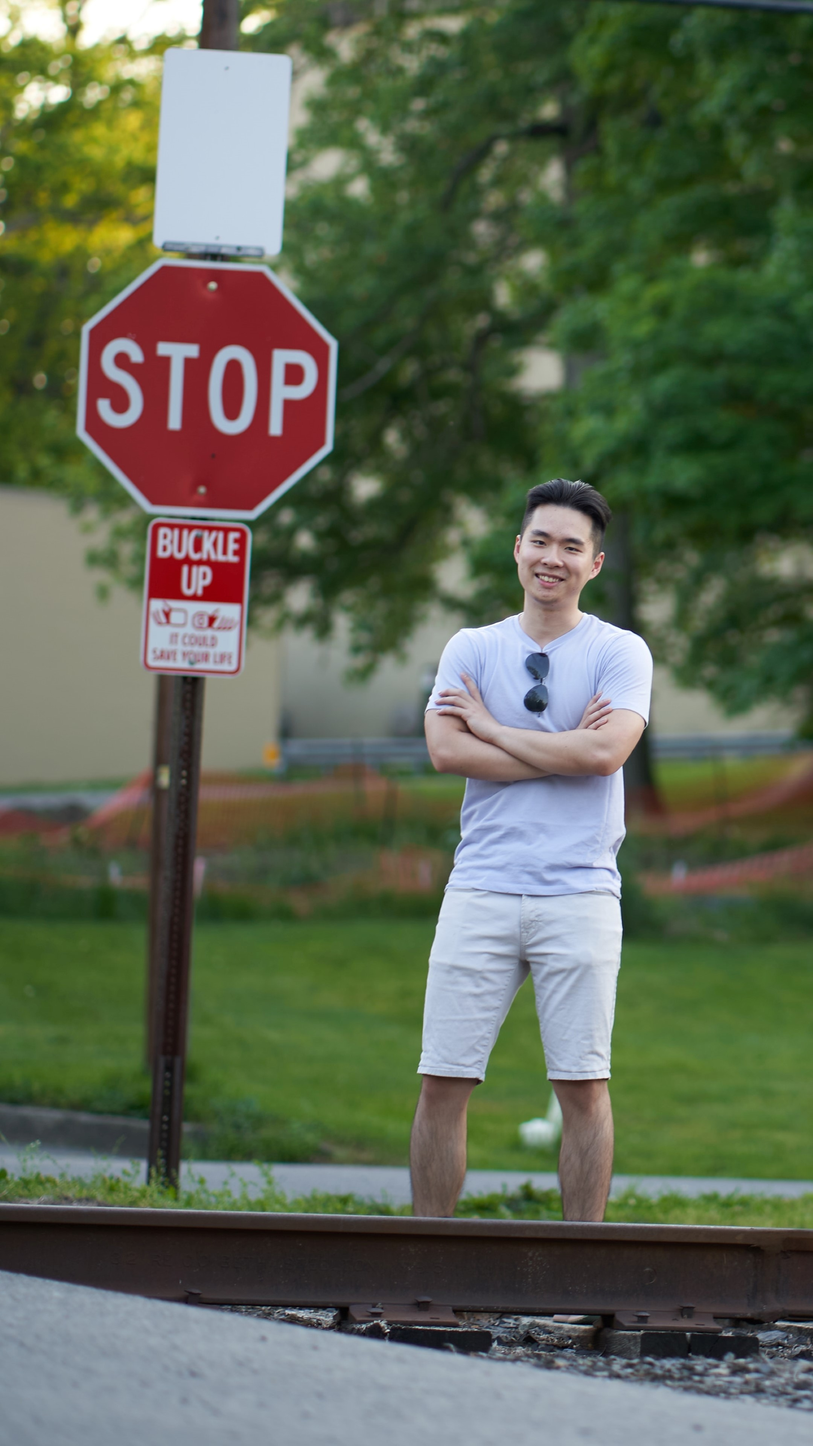
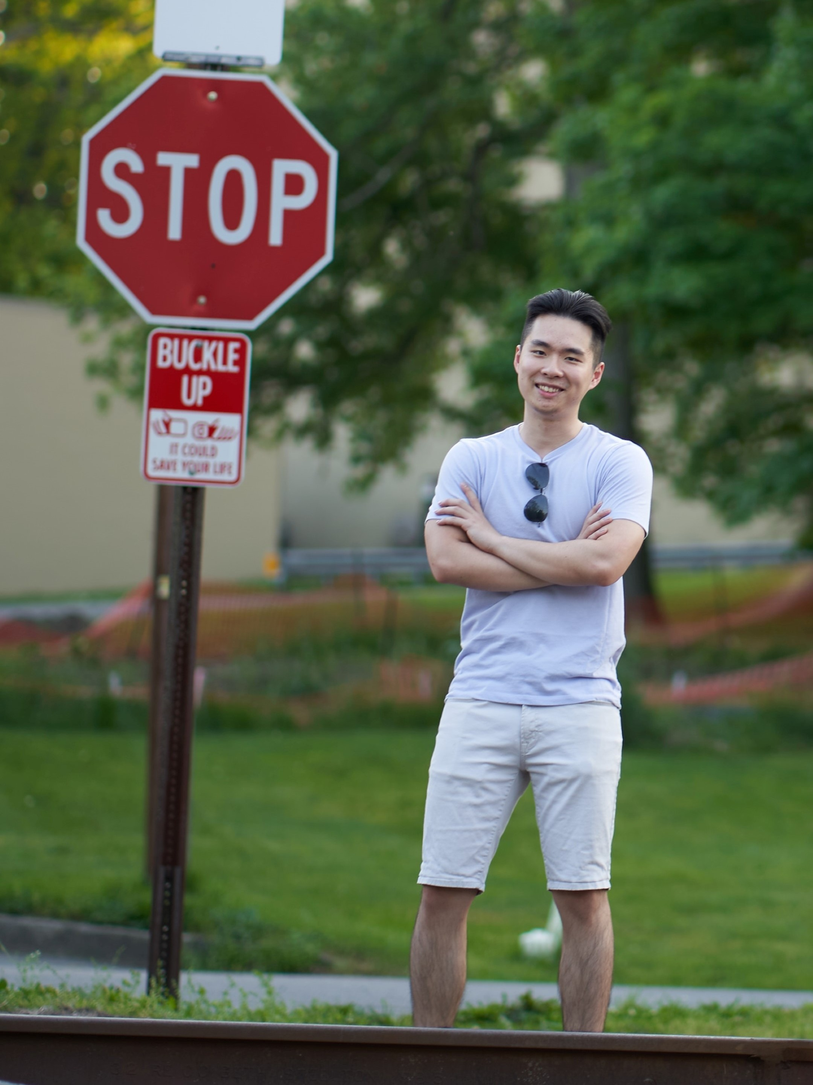
new images

diff --git a/style.css b/style.css
@@ -342,17 +342,23 @@ body:after {
 .card-content img {
   object-fit: cover;
   overflow: hidden;
-  width: 60rem;
-  height: 30rem;
+  width: 100%;
+  height: 100%;
+  flex: 4;
   object-position: center;
   filter:  url(#grainy) brightness(110%);
   border-right: solid 4px rgba(0, 0, 0, 0.2);
   border-bottom: none;
 }
+
+
+
 .card-content .card-text {
+  flex: 3;
   color:black;
   padding:3rem;
   text-align: left;
+  box-sizing: border-box;
 }
 
 .card-content .banner-image {
@@ -373,7 +379,7 @@ body:after {
     width: 100%;
     /* min-height: 20rem;
     max-height: 30rem; */
-    height: 20rem;
+    height: 25rem;
     border-right: none;
     border-bottom: 4px solid rgba(0, 0, 0, 0.2);
  }

diff --git a/music.html b/music.html
@@ -42,7 +42,7 @@
     <div class="card shadowed grainy">
       <!-- <p style="text-align: center; display: block;"> -->
       <div class="card-content">
-        <img src="assets/Music_1.jpg" class="banner-image" alt="music info">
+        <img src="assets/Music_1.jpg" class="banner-image" alt="music info" style="object-position: bottom;">
 
         <div class="card-text floating-text">
           <h2 class="text-tight-2" style="text-align: left;"> Sound <br>Extrapolation </h2>
